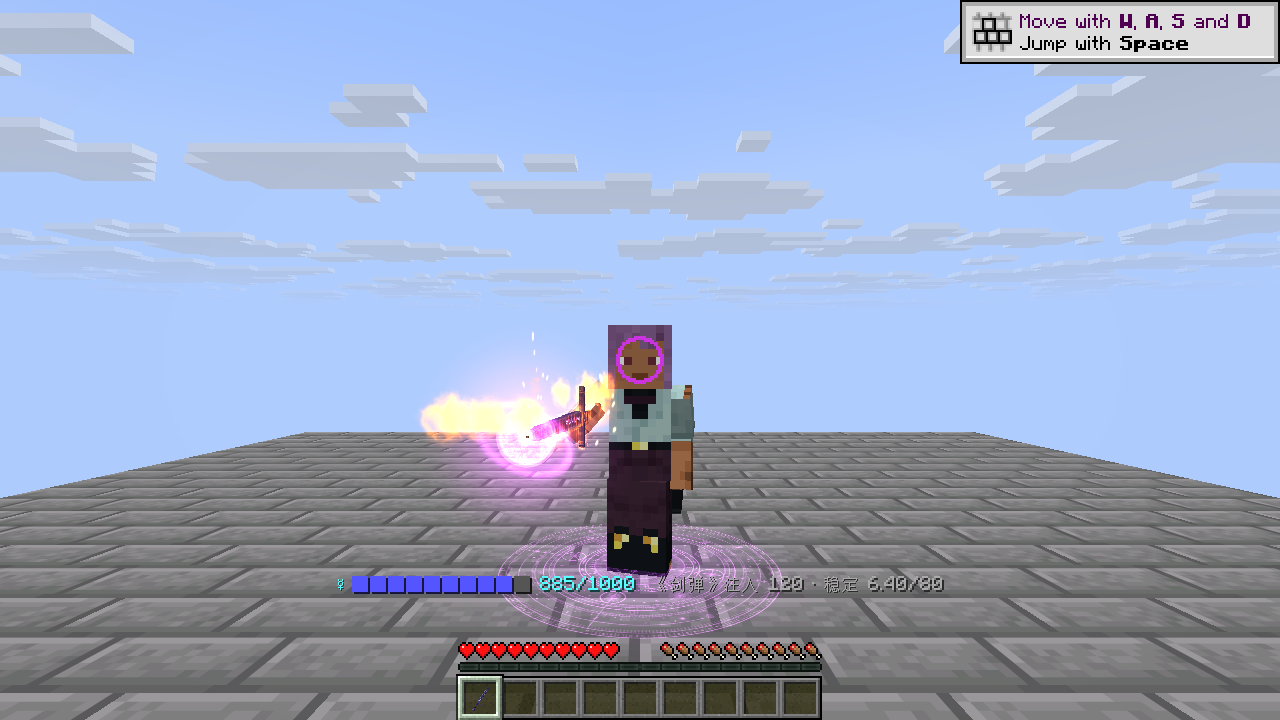
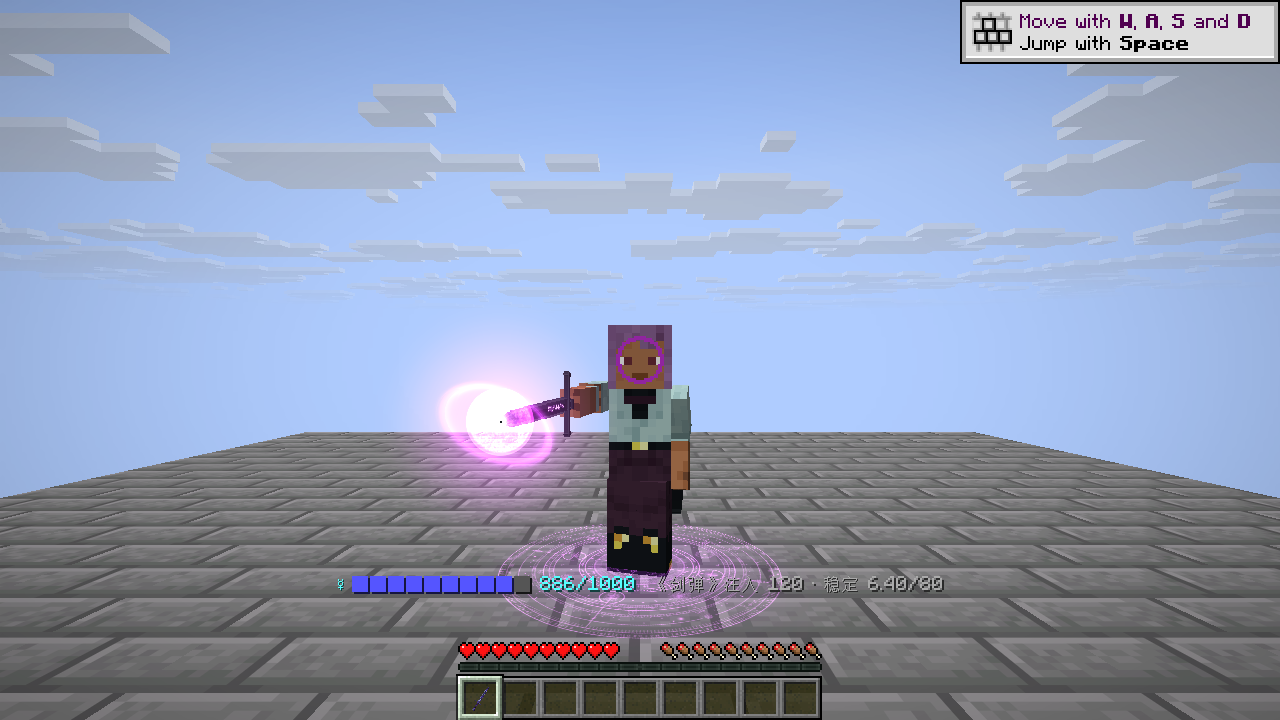
Straighten the arm in the blacksteel third-person cast hold
第三人称的施法前指改成手臂从肩到拳完全伸直，剑顺着手臂的延长线指向前方。
cast_aim 蓄力和持续光柱共用，两者都变。cast_thrust 的手臂已经伸直，改靠转身和
前倾把肩送出去；收回待机的起点也跟着变。

第一人称动作文件不变，视线俯仰跟随的代码没动。动作由 tools/blacksteel_cast_moves.py
重新烘焙。LongswordMotionTest 新增一项检查手肘伸直、剑与手臂成一线。

diff --git a/tools/blacksteel_cast_moves.py b/tools/blacksteel_cast_moves.py
@@ -5,8 +5,8 @@
     uv run --with numpy --with pillow python tools/blacksteel_cast_moves.py
 
 美术包里没有施法动作，这里用 combat_author 按刀路编排（编排坐标见 combat_author.py 开头），交给美术之前先用它：
-- cast_aim：蓄力与持续光柱时保持的单手前指，右肩略向前送，左手自然垂下（循环，静止）；
-- cast_thrust：施放：向前一送，再收回到长剑待机（一次）；
+- cast_aim：蓄力与持续光柱时保持的单手前指，第三人称手臂从肩到拳完全伸直，剑顺着手臂的延长线指向前方，右肩略向前送，左手自然垂下（循环，静止）；
+- cast_thrust：施放：向前一送（第三人称手臂已经伸直，靠转身前倾把肩送出去），再收回到长剑待机（一次）；
 - cast_lower：光柱结束：从前指收回到待机（一次）；
 - guard_lower：竖剑格挡放下：共用的 charge_start（举剑竖起）倒过来（一次）。格挡循环比举剑长，
   不能像 charge_cancel 那样按招式倒放（倒放起点取上一招的播放时刻）。
@@ -21,7 +21,7 @@ import json
 import numpy as np
 
 import combat_author
-from combat_author import Baker, bedrock, euler_matrix
+from combat_author import ARM_POLE, Baker, bedrock, euler_matrix, unit
 from dawnvow_moves import COMBAT, idle_pose, k, skeletons
 
 # 黑钢长剑的握柄与曦誓一样从 -3.2 到 3.2：右手握靠护手的一半。
@@ -33,9 +33,11 @@ AIM_LENGTH, THRUST_LENGTH, LOWER_LENGTH = 2.0, 0.6, 0.4
 THRUST_OUT, THRUST_BACK = 0.08, 0.24
 HANG_L = (-0.44, -0.96, 0.06)
 BACK_L = (-0.44, -0.9, 0.22)
-# 第三人称：剑尖笔直向前（略向内收），刃竖直（像握手那样握剑）。
-TP_AIM = dict(space='hips', up=(0, 15, 0), grip=(0.3, -0.14, -0.8), blade=(-0.08, 0, -1), edge=(0, -1, 0))
-TP_THRUST = dict(space='hips', up=(0, 24, 0), grip=(0.28, -0.1, -0.98), blade=(-0.08, 0, -1), edge=(0, -1, 0))
+# 第三人称：剑尖笔直向前（略向内收），刃竖直（像握手那样握剑）。躯干的转身与前倾：施放时转得更多、前倾，把伸直的手臂送出去。
+TP_BLADE, TP_EDGE = (-0.08, 0, -1), (0, -1, 0)
+TP_AIM_UP, TP_THRUST_UP = (0, 15, 0), (-8, 32, 0)
+# 手肘朝下：手臂伸直时方块袖子不绕长轴歪着。
+STRAIGHT_POLE = (0, -1, 0)
 # 第一人称（视图方向）：剑柄在画面右下，剑尖斜着指向画面中央。
 FP_BLADE, FP_EDGE = (-0.26, 0.17, -1), (0, -1, 0)
 FP_REACH, FP_THRUST_REACH = (-0.12, 0.1, -0.22), (-0.14, 0.12, -0.4)
@@ -46,9 +48,19 @@ def view_to_skeleton(root, v):
     return tuple(euler_matrix(root[1]).T @ np.asarray(v, float))
 
 
-def keys(view, idle, root):
+def straight_arm(sk, up):
+    """第三人称：肩到拳心正好是整条手臂的长度，手臂和剑在同一条线上（按髋部写）。护手正好露在拳头外面。"""
+    p = sk.pivot('UpBody')
+    shoulder = p + euler_matrix(up) @ (sk.pivot('RightArm') - p)
+    length = np.linalg.norm(sk.pivot('RightForeArm') - sk.pivot('RightArm')) \
+        + np.linalg.norm(sk.pivot('RightHand') - sk.pivot('RightForeArm')) + abs(sk.hand_grip[1])
+    grip = shoulder + unit(TP_BLADE) * length
+    return dict(space='hips', up=up, grip=tuple((grip - sk.center) / sk.arm), blade=TP_BLADE, edge=TP_EDGE, rpole=STRAIGHT_POLE)
+
+
+def keys(sk, view, idle, root):
     if view == 'tp':
-        aim, thrust = dict(TP_AIM), dict(TP_THRUST)
+        aim, thrust = straight_arm(sk, TP_AIM_UP), straight_arm(sk, TP_THRUST_UP)
     else:
         blade, edge = view_to_skeleton(root, FP_BLADE), view_to_skeleton(root, FP_EDGE)
         base = np.asarray(idle['grip'])
@@ -64,10 +76,10 @@ def keys(view, idle, root):
             k(THRUST_OUT, thrust, ease='hold', **dict(one_hand, lhand=BACK_L)),
             k(THRUST_BACK, aim, ease='hold', **one_hand),
             # 左手回到剑柄上，双手握回待机。
-            k(THRUST_LENGTH, idle, lmode='two', blend=0.25)]),
+            k(THRUST_LENGTH, idle, lmode='two', blend=0.25, rpole=ARM_POLE['Right'])]),
         dict(name='cast_lower', length=LOWER_LENGTH, loop='once', keys=[
             k(0.0, aim, **one_hand),
-            k(LOWER_LENGTH, idle, lmode='two', blend=0.3)]),
+            k(LOWER_LENGTH, idle, lmode='two', blend=0.3, rpole=ARM_POLE['Right'])]),
     ]
 
 
@@ -88,7 +100,7 @@ def main():
         idle, root = idle_pose(view, sk)
         if root is not None:
             sk.root = root
-        clips = keys(view, idle, root)
+        clips = keys(sk, view, idle, root)
         baker = Baker(sk)
         baked = {clip['name']: baker.bake(clip, 60) for clip in clips}
         for name, t, side, over in baker.warnings:

diff --git a/src/test/java/dev/logos/dimension/LongswordMotionTest.java b/src/test/java/dev/logos/dimension/LongswordMotionTest.java
@@ -80,6 +80,22 @@ class LongswordMotionTest {
             }
         }
     }
+    /** 黑钢长剑第三人称的施法前指：手臂从肩到拳伸直，水平朝前，剑顺着手臂的延长线。 */
+    @Test void blacksteelHoldKeepsTheArmStraightAndInLineWithTheBlade() throws Exception {
+        var skeleton=CombatSkeleton.fromJson(combat("skeletons/player_tp"));
+        var clip=CombatClip.parseFile(combat("animations/blacksteel_longsword_tp.animation"),new ArrayList<>()).get("cast_aim");
+        var bones=CombatPose.sample(clip,0).matrices(skeleton);
+        var shoulder=bones.get(CombatBones.RIGHT_ARM).transformPosition(new Vector3f(skeleton.bone(CombatBones.RIGHT_ARM).pivot()));
+        var elbow=bones.get(CombatBones.RIGHT_FORE_ARM).transformPosition(new Vector3f(skeleton.bone(CombatBones.RIGHT_FORE_ARM).pivot()));
+        var hand=bones.get(CombatBones.RIGHT_HAND).transformPosition(new Vector3f(skeleton.bone(CombatBones.RIGHT_HAND).pivot()));
+        var upper=new Vector3f(elbow).sub(shoulder).normalize(); var fore=new Vector3f(hand).sub(elbow).normalize();
+        assertTrue(Math.toDegrees(upper.angle(fore))<2,"手肘弯了："+Math.toDegrees(upper.angle(fore)));
+        var arm=new Vector3f(hand).sub(shoulder).normalize();
+        var blade=bones.get(CombatBones.WEAPON).transformDirection(new Vector3f(0,1,0)).normalize();
+        assertTrue(Math.toDegrees(arm.angle(blade))<1,"剑不在手臂的延长线上："+Math.toDegrees(arm.angle(blade)));
+        assertEquals(0,arm.y,.02f,"手臂不是水平的");
+        assertTrue(arm.z<-.9f,"手臂没有朝前："+arm);
+    }
     @Test void weaponOriginKeepsTheOldItemSurfaceTransform() throws Exception {
         // 魔力缠绕旧算法：剑骨骼 × 平移 (0,1,0) × 视角缩放；新算法取骨架里的剑枢轴与 weapon_scale。
         for (var view : new String[]{"fp","tp"}) {

diff --git a/docs/LONGSWORDS.md b/docs/LONGSWORDS.md
@@ -41,7 +41,7 @@
 | 潜行右键 | 和法杖一样打开载页栏位，6 格 |
 | R（术式轮盘键） | 和法杖一样选择要施放的术式 |
 | 按住右键 | 竖剑格挡，动作与曦誓的竖剑蓄力相同。用原版的格挡组件：0.3 秒举剑前摇之后挡住正面的攻击，减伤、击退与破盾走原版流程。挡下的东西**扣魔力而不损耗耐久**，正面的法术也挡，虚空穿透（见下面「魔力格挡」）。前方浮现一圈奥秘符文（Logos 奥秘射线的字形 `arcane_ray/runes`），前摇结束、真正挡得住时才成形 |
-| 格挡中点左键 | 开始施法蓄力（Logos 的 `Charging`，没挂载页、魔力不够时照 Logos 提示，仍在格挡）。单手握剑、剑尖指向前方，蓄力特效聚在剑尖；第三人称剑尖随视线俯仰。蓄力时不再格挡 |
+| 格挡中点左键 | 开始施法蓄力（Logos 的 `Charging`，没挂载页、魔力不够时照 Logos 提示，仍在格挡）。单手握剑、手臂伸直，剑顺着手臂的延长线指向前方，蓄力特效聚在剑尖；第三人称手臂连同剑绕肩随视线俯仰。蓄力时不再格挡 |
 | 蓄满后松开右键 | 施放。术式以光柱开头（Logos 的 `CastPose.gesture` 判定，看启式后的第一条语句）时一直剑尖前指，光柱从剑尖射出，光柱结束后收回；其他术式向前一送再收回待机 |
 | 没蓄满就松开右键 | 照 Logos 规则散掉已注入的魔力，剑收回待机 |
 

diff --git a/VERIFICATION.md b/VERIFICATION.md
@@ -1,5 +1,16 @@
 # 首版验证记录
 
+## 黑钢长剑：施法时手臂伸直
+
+2026-11-07：分支 `fix/blacksteel-straight-arm`，基于 main `7864d25`。按维护者意见，第三人称的施法前指改成手臂完全伸直、剑顺着手臂的延长线，由 `tools/blacksteel_cast_moves.py` 重新烘焙。`cast_aim` 蓄力和持续光柱共用，所以两者都变；`cast_thrust` 的手臂已经伸直，改靠转身和前倾把肩送出去。第一人称动作文件逐字节不变，视线俯仰跟随的代码没动。
+
+| 层级 | 结果 |
+| --- | --- |
+| 单元与构建 | `./gradlew test build` 通过；`LongswordMotionTest` 新增一项：`cast_aim` 手肘弯曲小于 2°，剑与手臂夹角小于 1°，手臂水平朝前 |
+| 世界测试 | `logos_dimension:longsword_*` **13/13** |
+| 实际客户端 | `blacksteel_cast` **1/1 场景、2/2 检查**；截图看过斜侧平视与低头、施放、背后与光柱 |
+| 未验证 | 光影包、联机 |
+
 ## 神狐：不在刀和弓之间来回换，苦力怕怕神狐
 
 2026-11-05：分支 `fix/fox-weapon-dither`，基于 main `8fe3fb9`。说明见 [神狐](docs/NPC_RACE_DIVINE_FOX.md) 第 6 节。维护者试玩时发现：约 6 格时背弓的神狐在刀和弓之间快速切换、打不出伤害；苦力怕也不怕神狐。
